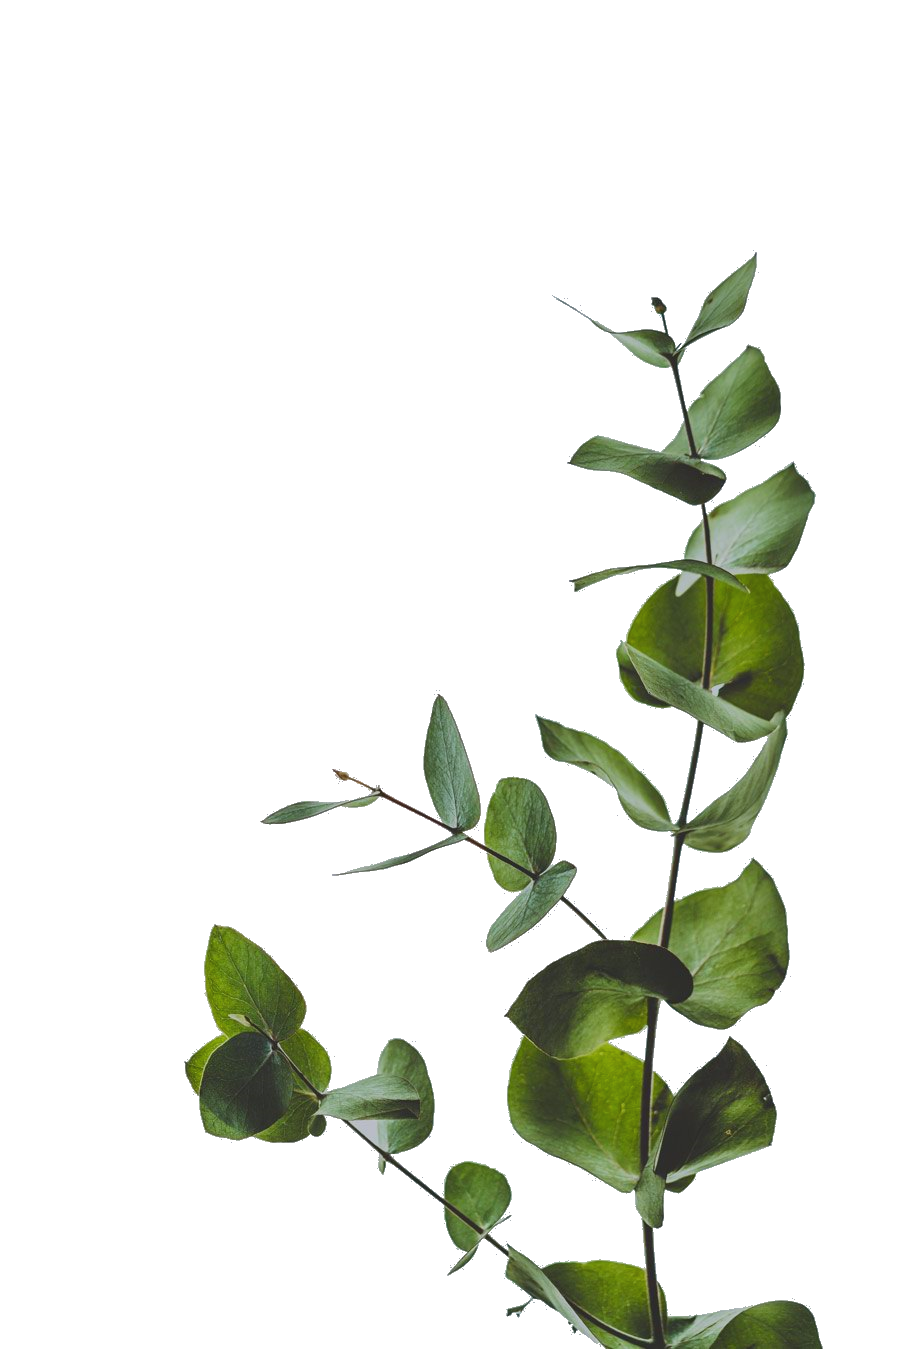
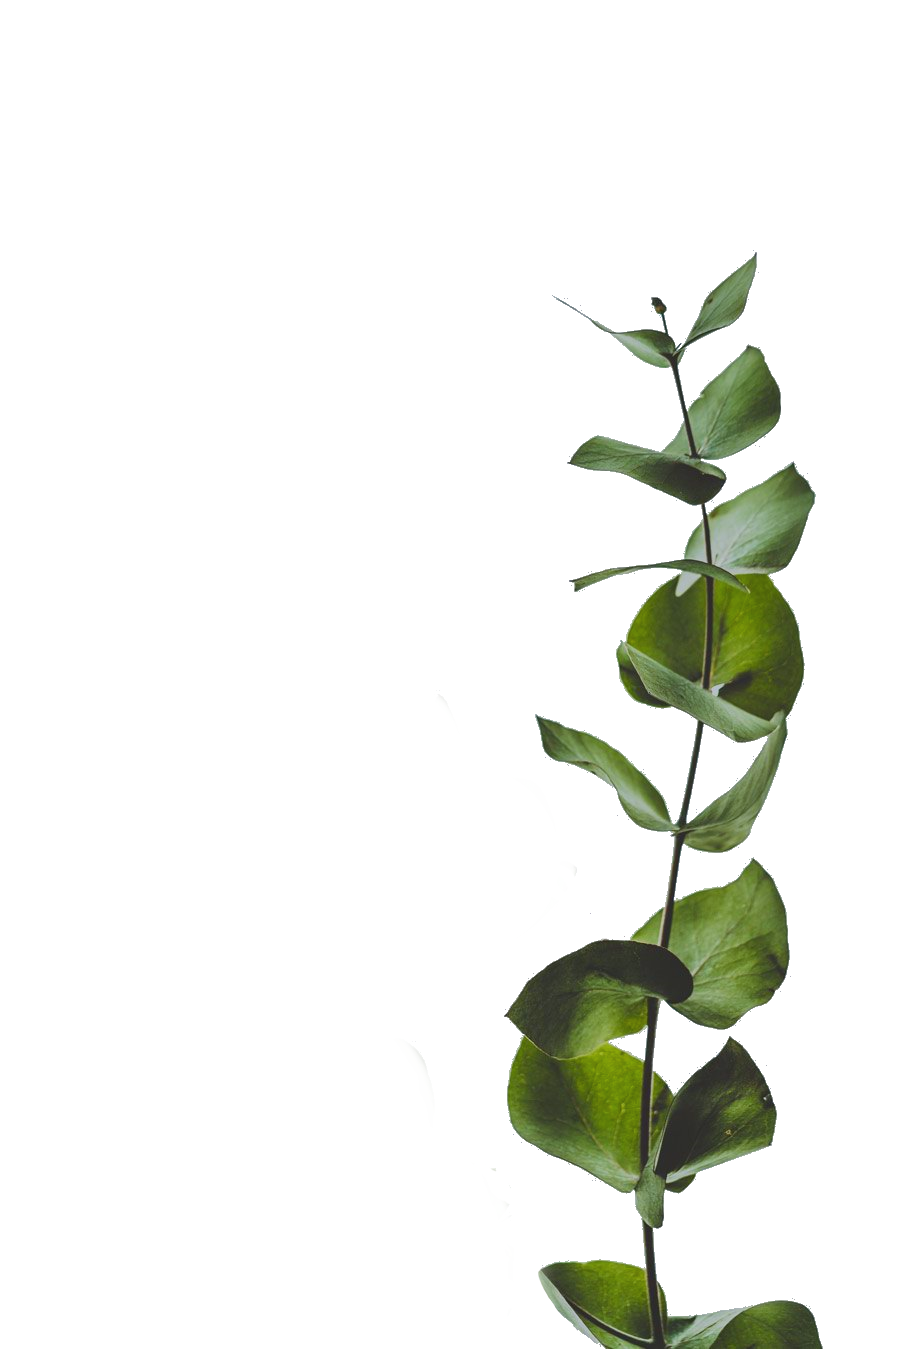
some changes

diff --git a/style.css b/style.css
@@ -1,5 +1,5 @@
 body, html{
-    height:1500px;
+    height:2500px;
     overflow-x:hidden;
     font-family: 'Montserrat';
 }
@@ -7,11 +7,11 @@ body, html{
 body{
     margin:0;
     padding:0;
+    background: rgb(123,146,157);
+background: linear-gradient(180deg, rgba(123,146,157,1) 0%, rgba(177,206,219,1) 51%, rgba(199,231,246,1) 100%);
     background-size:cover;
     background-position:center;
     background-repeat: no-repeat;
-    background: rgb(124,148,158);
-    background: linear-gradient(180deg, rgba(124,148,158,1) 0%, rgba(165,188,204,1) 35%, rgba(175,198,214,1) 68%, rgba(195,219,236,1) 100%);
     background-attachment: fixed;
 }
 
@@ -23,6 +23,7 @@ body{
 }
 
 #rainContainer{
+    z-index: -1;
     width:100%;
     height:100%;
     position: absolute;
@@ -50,12 +51,12 @@ body{
     top:-20px;
     transition: opacity 1s;
     position: absolute;
-    animation: fall 1s linear infinite;
+    animation: fall 1.5s linear infinite;
 }
 
 @keyframes fall {
     from { transform: translateY(0px);}
-    to { transform: translateY(1500px);}
+    to { transform: translateY(2500px);}
 }
 
 @keyframes moveRight {
@@ -75,27 +76,29 @@ body{
     z-index:-1;
     position:absolute;
     filter:brightness(87%);
+    animation-delay: -5s;
 }
 
 #clouds1 img{
-    animation: slideRight calc(10s * var(--i)) linear infinite;
+    animation: slideRight calc(15s * var(--i)) linear infinite;
 }
 
 #clouds2 img{
-    animation: slideLeft calc(10s * var(--j)) linear infinite;
+    animation: slideLeft calc(15s * var(--j)) linear infinite;
 }
 
 @keyframes slideRight {
-    from{transform: translateX(-1500px);}
-    to{transform: translateX(1500px);}
+    from{transform: translateX(-180vw);}
+    to{transform: translateX(180vw);}
 }
 
 @keyframes slideLeft{
-    from{transform: translateX(1500px);}
-    to{transform: translateX(-1500px);}
+    from{transform: translateX(180vw);}
+    to{transform: translateX(-180vw);}
 }
 
 #navMenu {
+    z-index: 9;
     color:rgba(0, 0, 0, 0.66);
     font-weight:bolder;
     position:fixed;
@@ -113,7 +116,7 @@ body{
 }
 
 .navText{
-    font-size:16px;
+    font-size:15px;
     padding:0 5vw;
     height:60px;
     align-items:center;
@@ -134,27 +137,31 @@ body{
 }
 
 #welcome{
-    text-align:center;
-    white-space:nowrap;
-    width:100%;
-    align-items:center;
     display:flex;
     flex-direction:column;
     justify-content: center;
-    margin-top:290px;
+    align-items:center;
+    text-align:center;
+    white-space:nowrap;
+    width:100vw;
+    height:100vh;
     color:rgb(231, 230, 230);
+    margin-bottom:10vh;
+}
+
+#welcomeText{
     -webkit-box-reflect: below 5px linear-gradient(transparent, rgba(255, 255, 255, 0.218));
 }
 
-#welcomeText1{  
-    font-size:100px;
+#welcomeHeading{  
+    font-size:37px;
     font-weight:1000;
     position:relative;
     transition: 0.4s linear;
 }
 
-#welcomeText2{
-    font-size:30px;
+#welcomeBody{
+    font-size:14px;
     font-weight:500;
     transition: 0.4s linear;
 }
@@ -166,76 +173,192 @@ body{
 #umbrella img{
     z-index:-1;
     position:absolute;
-    width:170px;
+    width:60px;
     transform:rotate(20deg);
-    left:-55px;
-    bottom:14px;
+    left:-20px;
+    bottom:5px;
 }
 
-#tree1 {
+#welcomeHR{
+    background-image: linear-gradient(to right, rgba(255, 255, 255, 0), rgba(255, 255, 255, 0.75), rgba(255, 255, 255, 0));
+    width:70%;
+    height:2px;
+    margin-left:auto;
+    margin-right:auto;
+    margin-bottom: 50px;
+}
+
+#aboutSection{
+    width:88%;
+    display:flex;
+    flex-direction: column;
+    margin-left:auto;
+    margin-right:auto;
+    justify-content: center;
+    border: solid rgb(89, 114, 125) 1px;
+    background-color: rgba(228, 226, 226, 0.377);
+    backdrop-filter: blur(20px);
+    border-radius: 6px;
+    box-shadow: 5px 5px 10px rgb(89, 114, 125);
+
+}
+
+#rainGif{
+    border-top-left-radius: 6px;
+    border-top-right-radius: 6px;
+}
+
+#aboutText{
+    padding:20px;
+    display:flex;
+    flex-direction: column;
+    gap:7px;
+}
+
+#aboutTextHeading{
+    font-size:18px;
+    font-weight:600;
+    color:rgb(59, 75, 82);
+}
+
+#aboutTextBody{
+    font-size:14px;
+}
+
+#leavesContainer{
+    width:100%;
+    margin-top:-123px;
+    position:relative;
+}
+
+#leaves1 {
     transform: rotate(-90deg);
+    width:300px;
+    right:70px;
     position:absolute;
-    right:0px;
-    width:50%;
-    top:800px;
 }
 
-#tree2 {
-    transform:rotate(90deg);
-    position:absolute;
-    left:-10px;
-    width:50%;
-    top:450px;
-}
-
-@media (max-width:1024px){
-    #welcome{
-        margin-top:240px;
+@media only screen and (min-width: 480px){
+    #aboutSection{
+        width:80%;
     }
 
-    #welcomeText1 {
+    #aboutTextHeading{
+        font-size:21px;
+    }
+
+    #aboutTextBody{
+        font-size:17px;
+    }
+
+}
+
+@media only screen and (min-width: 768px){
+    .navText{
+        font-size:16px;
+    }
+
+    #welcomeHeading{
         font-size:55px;
     }
 
-    #welcomeText2 {
-        font-size:20px;
+    #welcomeBody{
+        font-size:19px;
     }
 
     #umbrella img{
-        width:100px;
-        left:-33px;
-        top:-32px;
+        width:85px;
+        left: -27px;
+        bottom: 8px;
     }
 
-    #cloudContainer{
-        margin-top:-35vh;
+    #aboutSection{
+        flex-direction:row;
+        width:82%;
+        border:none;
+        box-shadow:none;
+        background-color:transparent;
+        gap:30px;
+    }
+
+    #aboutText{
+        padding:20px;
+        border: solid transparent 1px;
+        background-color: rgba(228, 226, 226, 0.377);
+        backdrop-filter: blur(20px);
+        border-radius: 6px;
+        box-shadow: 5px 5px 10px rgb(89, 114, 125);
+    }
+
+    #aboutTextHeading{
+        font-size:19px;
+    }
+
+    #aboutTextBody{
+        font-size:14px;
+    }
+
+    #rainGif{
+        width:60%;
+        box-shadow: 5px 5px 10px rgb(89, 114, 125);
+        border-bottom-left-radius: 6px;
+        border-bottom-right-radius: 6px;
+    }
+
+    #leaves1{
+        transform: rotate(0);
+        transform: scaleX(-1);
+        transform: rotate(90deg);
+        left:70px;
+        top:-160px;
     }
 }
 
-@media (max-width:520px){
-    #welcome{
-        margin-top:250px;
+@media only screen and (min-width: 1024px){
+    #welcomeHeading{
+        font-size:70px;
     }
 
-    #welcomeText1 {
-        font-size:30px;
-    }
-
-    #welcomeText2 {
-        font-size: 12px;
+    #welcomeBody{
+        font-size:25px;
     }
 
     #umbrella img{
-        width:60px;
-        left:-20px;
-        top:-23px;
+        width:115px;
+        left:-38px;
+        bottom: 10px;
     }
 
-    .navText {
-        font-size:13px;
+
+    #welcomeHR{
+        margin-bottom:70px;
+    }
+    
+    #aboutSection{
+        width:78%;
     }
 
-    #cloudContainer{
-        margin-top:-35vh;
+    #rainGif{
+        width:70%;
+    }
+
+    #aboutText{
+        width:40%;
+        padding:30px;
+        gap:10px;
+    }
+
+    #aboutTextHeading{
+        font-size:22px;
+    }
+
+    #aboutTextBody{
+        font-size:17px;
+    }
+
+    #leaves1{
+        width:410px;
+        left:70px;
+        top:-270px;
     }
 }

diff --git a/index.html b/index.html
@@ -40,14 +40,22 @@
             </div>
         </div>
         <div id="welcome">
-            <div id="welcomeText1">Welcome to Ra<span id="umbrella" style="position:relative;">i<img src="images\umbrella.png">n.</span></div>
-            <div id="welcomeText2">a website all about this weather.</div>
+            <div id="welcomeText">
+                <div id="welcomeHeading">Welcome to Ra<span id="umbrella" style="position:relative;">i<img src="images\umbrella.png">n.</span></div>
+                <div id="welcomeBody">a website all about this weather.</div>
+            </div>
         </div>
+        <div id="welcomeHR"></div>
         <div id="aboutSection">
-            
+            <img id="rainGif" src="images\raingif.gif">
+            <div id="aboutText">
+                <div id="aboutTextHeading">About this website</div>
+                <div id="aboutTextBody">Welcome to rain! These pages are not only for me to try my best to depict the abtract feelings of rain and my thoughts on it, but to also practice my frontend skills before getting into university. ☂ </div>
+            </div>
         </div>
-        <img src="images\tree.png" loading="lazy" id="tree1">
-        <img src="images\tree.png" loading="lazy" id="tree2">
+        <div id="leavesContainer">
+            <img src="images\tree.png" id="leaves1">
+        </div>
     </div>
 
     <script src="script.js" defer></script>
